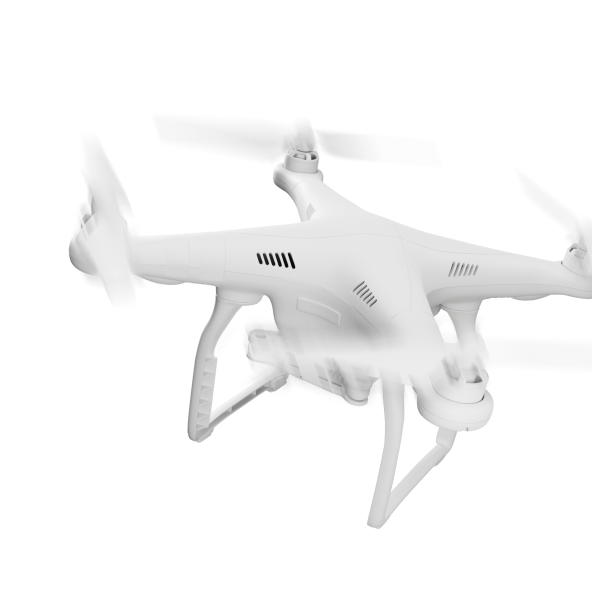
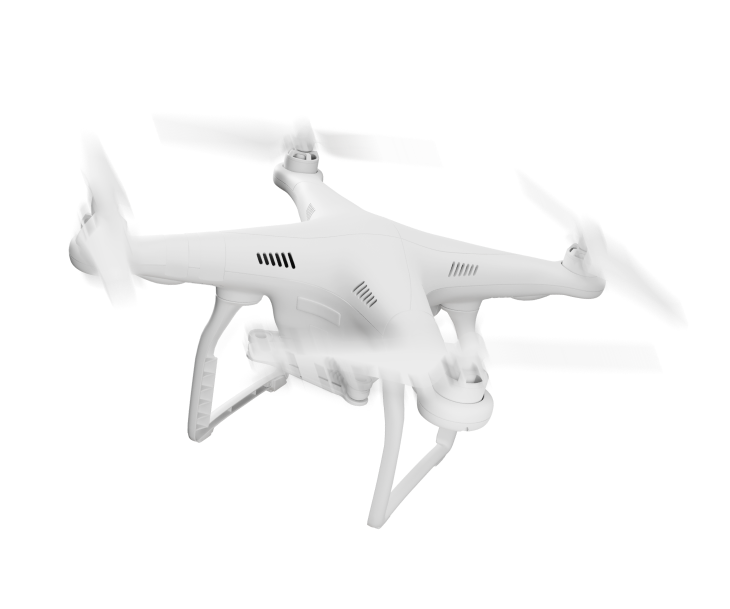
Add files via upload

diff --git a/css/main.min.css b/css/main.min.css
@@ -1,1 +1,1 @@
-@font-face{font-family:'Rubik';src:url("../fonts/Rubik-Medium.woff2") format("woff2"),url("../fonts/Rubik-Medium.woff") format("woff");font-style:normal;font-weight:500;font-display:swap}@font-face{font-family:'Rubik';src:url("../fonts/Rubik-SemiBold.woff2") format("woff2"),url("../fonts/Rubik-SemiBold.woff") format("woff");font-style:normal;font-weight:600;font-display:swap}@font-face{font-family:'Rubik';src:url("../fonts/Rubik-Bold.woff2") format("woff2"),url("../fonts/Rubik-Bold.woff") format("woff");font-style:normal;font-weight:700;font-display:swap}@font-face{font-family:'Exo 2';src:url("../fonts/Exo2-Medium.woff2") format("woff2"),url("../fonts/Exo2-Medium.woff") format("woff");font-style:normal;font-weight:500;font-display:swap}@font-face{font-family:'Exo 2';src:url("../fonts/Exo2-Bold.woff2") format("woff2"),url("../fonts/Exo2-Bold.woff") format("woff");font-style:normal;font-weight:700;font-display:swap}html{scroll-behavior:smooth}body{background:#EAEAEA;font-family:'Exo 2', sans-serif;font-weight:500;font-size:16px;line-height:19px;color:#202020}section{margin-bottom:90px}h1,h2,h3,h4,h5,h6{font-family:'Rubik', sans-serif}h1{font-weight:700;font-size:98px;line-height:116px;text-transform:uppercase}h3{font-weight:600;font-size:40px;line-height:47.4px}button{padding:12px 40px;color:#EAEAEA;background:transparent;border:1px solid #EAEAEA;border-radius:10px;transition:all 0.5s}button:hover{background:#EAEAEA;color:#202020;border-color:#202020}input{padding:12px 0 12px 20px;background:transparent;color:#fff;border:1px solid #A0A0A0;border-radius:10px;font-family:'Exo 2', sans-serif;font-weight:500;position:relative}input:focus{padding:17px 0 7px 20px;color:#fff;border-color:#fff}input:focus::placeholder{position:absolute;top:4px;color:#A0A0A0;font-size:10px;line-height:12px}.container{position:relative;max-width:1120px;margin:0 auto;padding:0 5px}.logo__img-mobile{display:none}.menu{display:flex;justify-content:space-between;align-items:center;padding:30px 0}.menu__link{font-family:'Rubik', sans-serif;font-weight:500}.menu__btn-mobile{display:none}.landing{padding:40px 0 120px;color:#EAEAEA;background:#202020}.landing__title{width:555px;margin-bottom:40px}.landing__subtitle{width:353px;margin-bottom:65px}.landing__img{position:absolute;right:0;top:11px}.advantages__inner{display:flex;justify-content:space-between}.advantages__box{width:350px;height:245px;padding:30px;background:#fff;border-radius:16px}.advantages__title{width:255px;margin-bottom:53px;color:#202020}.deliveries{color:#EAEAEA}.deliveries__inner{display:flex;justify-content:space-between;background:#202020;border-radius:16px}.deliveries__left{max-width:384px;padding:30px}.deliveries__title{margin-bottom:30px}.deliveries__text{margin-bottom:20px}.deliveries__text:nth-last-child(2){margin-bottom:60px}.deliveries__link-btn{width:100%}.deliveries__right{width:100%;height:363px;background-image:url(../images/deliveries-box.png);background-repeat:no-repeat;background-size:cover;background-position:center;border-radius:16px}.partners{color:#202020}.partners__title{margin-bottom:30px}.partners__logos{display:flex;justify-content:space-between;align-items:center}.orders{position:relative;background:#202020;color:#EAEAEA}.orders__inner{position:relative;width:293px;margin:0 auto;padding:138px 0 280px}.orders__title{margin-bottom:30px}.orders__input{width:293px;margin-bottom:10px}.orders__link{display:block;margin-top:15px}.orders__link-btn{width:100%}.orders__img{position:absolute}.orders__img-left{height:70%;left:0;top:-30px}.orders__img-right{height:61%;right:0;top:70px}.orders__img-bottom{bottom:-160px;left:-21px}.footer{padding:40px 0 75px}.footer__inner{display:flex;justify-content:space-between;margin-bottom:90px}.footer__left{width:422px;display:flex;justify-content:space-between}.footer__sections-link,.footer__contacts-link{display:block;margin-bottom:20px}.footer__sections-link:nth-last-child(1),.footer__contacts-link:nth-last-child(1){margin-bottom:0}.footer__right{width:276px;display:flex}.footer__apps-link{display:inline-block;height:47px;margin-bottom:10px}.footer__apps-link:nth-last-child(1){margin-bottom:0}.footer__circa{font-weight:700}.footer__circa-mobile{display:none}@media (max-width: 1135px){section{margin-bottom:60px}h1{font-size:72px;line-height:82px}h3{font-size:30px;line-height:36px}.container{max-width:1120px;padding:0 50px}.landing{padding-bottom:60px}.landing__img{height:110%}.advantages__box{max-width:270px;height:205px;padding:20px}.advantages__title{width:185px;margin-bottom:33px}.advantages__text{width:200px}.deliveries__left{max-width:384px}.orders__inner{width:250px;margin:0 auto;padding:75px 0 140px}.orders__input{width:100%}.orders__img-left{height:80%;left:0;top:-30px}.orders__img-right{height:71%;right:0;top:70px}.orders__img-bottom{height:45%;bottom:-100px;left:4px}.footer{padding:0 0 25px}.footer__inner{margin-bottom:40px}.footer__left{width:350px}.footer__sections-link,.footer__contacts-link{margin-bottom:10px}.footer__sections-link:nth-last-child(1),.footer__contacts-link:nth-last-child(1){margin-bottom:0}}@media (max-width: 970px){section{margin-bottom:60px}h1{font-size:56px;line-height:62px}h3{font-size:30px;line-height:35.55px}.container{max-width:1120px;padding:0 50px}.menu{padding:15px 0}.landing{padding-bottom:60px}.advantages__box{max-width:220px;height:185px;padding:15px}.advantages__title{width:185px;margin-bottom:33px}.advantages__text{width:180px}.deliveries__left{max-width:303px}.deliveries__title{margin-bottom:20px}.deliveries__text{margin-bottom:15px}.deliveries__text:nth-last-child(2){margin-bottom:20px}.orders__inner{padding-bottom:80px}.orders__img-left{height:65%;top:-20px}.orders__img-right{height:56%}.orders__img-bottom{height:35%;bottom:-80px;left:43px}.footer{padding:0 0 25px}.footer__inner{margin-bottom:40px}.footer__left{width:300px}}@media (max-width: 810px){section{margin-bottom:50px}h1{font-size:40px;line-height:47.4px}h3{font-size:30px;line-height:35.55px}.container{max-width:800px;padding:0 15px}.menu__link{display:none}.menu__btn-mobile{display:block;border:none;padding:0;color:transparent;background:transparent}.menu__btn-mobile:hover{background:transparent;color:transparent;border:none}.logo__img{display:none}.logo__img-mobile{display:block}.landing{padding:31px 0 45px}.landing__title{font-size:40px;line-height:47px;margin-bottom:15px}.landing__subtitle{font-size:20px;line-height:23.7px;margin-bottom:40px}.landing__link{display:block}.landing__link-btn{width:40%}.landing__img{height:130%;top:-10px}.deliveries__inner{flex-direction:column-reverse}.deliveries__left{max-width:780px}.deliveries__right{margin:0 auto}}@media (max-width: 740px){.landing{padding-top:161px}.landing__title{width:227px}.landing__link-btn{width:100%}.landing__img{top:-140px}.advantages__inner{display:block}.advantages__box{max-width:710px;width:100%;height:230px;margin-bottom:25px;padding:30px 25px}.advantages__text{width:200px}.deliveries__left{padding:15px}.deliveries__right{height:268px}.partners{margin-bottom:30px}.partners__title{margin-bottom:10px}.partners__logos{display:flex;flex-wrap:wrap;justify-content:space-around}.partners__link{display:block;padding:20px}.orders__img-left,.orders__img-right{display:none}.orders__inner{width:344px;padding-bottom:172px}.orders__img-bottom{height:39%;left:55px;bottom:-80px}.footer{padding-top:40px}.footer__inner{flex-direction:row-reverse}.footer__left{justify-content:center}.footer__sections{display:none}.footer__contacts-link{margin-bottom:15px}.footer__right{justify-content:center}.footer__apps{width:158px}.footer__qrcode-link{display:none}.footer__qrcode-img{display:none}.footer__circa{display:none}.footer__circa-mobile{display:block;margin-top:36px;font-weight:700}}@media (max-width: 640px){.landing{padding-top:311px}.landing__img{top:-310px}}
+@font-face{font-family:'Rubik';src:url("../fonts/Rubik-Medium.woff2") format("woff2"),url("../fonts/Rubik-Medium.woff") format("woff");font-style:normal;font-weight:500;font-display:swap}@font-face{font-family:'Rubik';src:url("../fonts/Rubik-SemiBold.woff2") format("woff2"),url("../fonts/Rubik-SemiBold.woff") format("woff");font-style:normal;font-weight:600;font-display:swap}@font-face{font-family:'Rubik';src:url("../fonts/Rubik-Bold.woff2") format("woff2"),url("../fonts/Rubik-Bold.woff") format("woff");font-style:normal;font-weight:700;font-display:swap}@font-face{font-family:'Exo 2';src:url("../fonts/Exo2-Medium.woff2") format("woff2"),url("../fonts/Exo2-Medium.woff") format("woff");font-style:normal;font-weight:500;font-display:swap}@font-face{font-family:'Exo 2';src:url("../fonts/Exo2-Bold.woff2") format("woff2"),url("../fonts/Exo2-Bold.woff") format("woff");font-style:normal;font-weight:700;font-display:swap}html{scroll-behavior:smooth}body{background:#EAEAEA;font-family:'Exo 2', sans-serif;font-weight:500;font-size:16px;line-height:19px;color:#202020;overflow-x:hidden}section{margin-bottom:90px}h1,h2,h3,h4,h5,h6{font-family:'Rubik', sans-serif}h1{font-weight:700;font-size:98px;line-height:116px;text-transform:uppercase}h3{font-weight:600;font-size:40px;line-height:47.4px}button{padding:12px 40px;color:#EAEAEA;background:transparent;border:1px solid #EAEAEA;border-radius:10px;transition:all 0.5s}button:hover{background:#EAEAEA;color:#202020;border-color:#202020}input{padding:12px 0 12px 20px;background:transparent;color:#fff;border:1px solid #A0A0A0;border-radius:10px;font-family:'Exo 2', sans-serif;font-weight:500;position:relative}input:focus{padding:17px 0 7px 20px;color:#fff;border-color:#fff}input:focus::placeholder{position:absolute;top:4px;color:#A0A0A0;font-size:10px;line-height:12px}.container{max-width:1120px;margin:0 auto;padding:0 5px}.logo__img-mobile{display:none}.menu{display:flex;justify-content:space-between;align-items:center;padding:30px 0}.menu__link{font-family:'Rubik', sans-serif;font-weight:500}.menu__btn-mobile{display:none}.landing{padding:40px 0 120px;color:#EAEAEA;background:#202020}.landing__container{position:relative}.landing__title{width:555px;margin-bottom:40px}.landing__subtitle{width:353px;margin-bottom:65px}.landing__img{position:absolute;right:-505px;top:11px}.advantages__inner{display:flex;justify-content:space-between}.advantages__box{width:350px;height:245px;padding:30px;background:#fff;border-radius:16px}.advantages__title{width:255px;margin-bottom:53px;color:#202020}.deliveries{color:#EAEAEA}.deliveries__inner{display:flex;justify-content:space-between;background:#202020;border-radius:16px}.deliveries__left{max-width:384px;padding:30px}.deliveries__title{margin-bottom:30px}.deliveries__text{margin-bottom:20px}.deliveries__text:nth-last-child(2){margin-bottom:60px}.deliveries__link-btn{width:100%}.deliveries__right{width:100%;height:374px;background-image:url(../images/deliveries-box.png);background-repeat:no-repeat;background-size:cover;background-position:center;border-radius:16px}.partners{color:#202020}.partners__title{margin-bottom:30px}.partners__logos{display:flex;justify-content:space-between;align-items:center}.orders{background:#202020;color:#EAEAEA}.orders__container{position:relative}.orders__inner{width:293px;margin:0 auto;padding:138px 0 280px}.orders__title{margin-bottom:30px}.orders__input{width:293px;margin-bottom:10px}.orders__link{display:block;margin-top:15px}.orders__link-btn{width:100%}.orders__img{position:absolute}.orders__img-left{height:70%;left:-345px;top:-30px}.orders__img-right{height:61%;right:-268px;top:70px}.orders__img-bottom{bottom:-180px;left:382px}.footer{padding:40px 0 75px}.footer__inner{display:flex;justify-content:space-between;margin-bottom:90px}.footer__left{width:422px;display:flex;justify-content:space-between}.footer__sections-link,.footer__contacts-link{display:block;margin-bottom:20px}.footer__sections-link:nth-last-child(1),.footer__contacts-link:nth-last-child(1){margin-bottom:0}.footer__right{width:276px;display:flex}.footer__apps-link{display:inline-block;height:47px;margin-bottom:10px}.footer__apps-link:nth-last-child(1){margin-bottom:0}.footer__circa{font-weight:700}.footer__circa-mobile{display:none}@media (max-width: 1135px){section{margin-bottom:60px}h1{font-size:72px;line-height:82px}h3{font-size:30px;line-height:36px}.container{max-width:1120px;padding:0 50px}.landing{padding-bottom:60px}.landing__img{height:110%;right:-170px}.advantages__box{max-width:270px;height:205px;padding:20px}.advantages__title{width:185px;margin-bottom:33px}.advantages__text{width:200px}.deliveries__left{max-width:384px}.orders__inner{position:relative;width:250px;margin:0 auto;padding:75px 0 140px}.orders__input{width:100%}.orders__img-left{height:80%;left:-140px;top:-30px}.orders__img-right{height:71%;right:-100px;top:70px}.orders__img-bottom{height:45%;bottom:-100px;left:4px}.footer{padding:0 0 25px}.footer__inner{margin-bottom:40px}.footer__left{width:350px}.footer__sections-link,.footer__contacts-link{margin-bottom:10px}.footer__sections-link:nth-last-child(1),.footer__contacts-link:nth-last-child(1){margin-bottom:0}}@media (max-width: 970px){section{margin-bottom:60px}h1{font-size:56px;line-height:62px}h3{font-size:30px;line-height:35.55px}.container{max-width:1120px;padding:0 50px}.menu{padding:15px 0}.landing{padding-bottom:60px}.advantages__box{max-width:220px;height:185px;padding:15px}.advantages__title{width:185px;margin-bottom:33px}.advantages__text{width:180px}.deliveries__left{max-width:303px}.deliveries__title{margin-bottom:20px}.deliveries__text{margin-bottom:15px}.deliveries__text:nth-last-child(2){margin-bottom:20px}.orders__inner{padding-bottom:80px}.orders__img-left{height:65%;top:-20px}.orders__img-right{height:56%}.orders__img-bottom{height:35%;bottom:-90px;left:43px}.footer{padding:0 0 25px}.footer__inner{margin-bottom:40px}.footer__left{width:300px}}@media (max-width: 810px){section{margin-bottom:50px}h1{font-size:40px;line-height:47.4px}h3{font-size:30px;line-height:35.55px}.container{max-width:800px;padding:0 15px}.menu__link{display:none}.menu__btn-mobile{display:block;border:none;padding:0;color:transparent;background:transparent}.menu__btn-mobile:hover{background:transparent;color:transparent;border:none}.logo__img{display:none}.logo__img-mobile{display:block}.landing{padding:31px 0 45px}.landing__title{font-size:40px;line-height:47px;margin-bottom:15px}.landing__subtitle{font-size:20px;line-height:23.7px;margin-bottom:40px}.landing__link{display:block}.landing__link-btn{width:40%}.landing__img{height:130%;top:-10px;right:-100px}.deliveries__inner{flex-direction:column-reverse}.deliveries__left{max-width:780px}.deliveries__right{margin:0 auto}}@media (max-width: 740px){.landing{padding-top:161px}.landing__title{width:227px}.landing__link-btn{width:100%}.landing__img{top:-140px}.advantages__inner{display:block}.advantages__box{max-width:710px;width:100%;height:230px;margin-bottom:25px;padding:30px 25px}.advantages__text{width:200px}.deliveries__left{padding:15px}.deliveries__right{height:268px}.partners{margin-bottom:30px}.partners__title{margin-bottom:10px}.partners__logos{display:flex;flex-wrap:wrap;justify-content:space-around}.partners__link{display:block;padding:20px}.orders__img-left,.orders__img-right{display:none}.orders__inner{width:344px;padding-bottom:172px}.orders__img-bottom{height:39%;left:55px;bottom:-80px}.footer{padding-top:40px}.footer__inner{flex-direction:row-reverse}.footer__left{justify-content:center}.footer__sections{display:none}.footer__contacts-link{margin-bottom:15px}.footer__right{justify-content:center}.footer__apps{width:158px}.footer__qrcode-link{display:none}.footer__qrcode-img{display:none}.footer__circa{display:none}.footer__circa-mobile{display:block;margin-top:36px;font-weight:700}}@media (max-width: 640px){.landing{padding-top:311px}.landing__img{top:-310px}}

diff --git a/scss/main.scss b/scss/main.scss
@@ -54,6 +54,7 @@ body {
    font-size: 16px;
    line-height: 19px;
    color: #202020;
+   overflow-x: hidden;
 }
 
 section {
@@ -123,7 +124,6 @@ input {
 }
 
 .container {
-   position: relative;
    max-width: 1120px;
    margin: 0 auto;
    padding: 0 5px;
@@ -163,6 +163,10 @@ input {
    color: #EAEAEA;
    background: #202020;
 
+   &__container {
+      position: relative;
+   }
+
    &__title {
       width: 555px;
       margin-bottom: 40px;
@@ -179,7 +183,7 @@ input {
 
    &__img {
       position: absolute;
-      right: 0;
+      right: -505px;
       top: 11px;
    }
 }
@@ -243,7 +247,7 @@ input {
 
    &__right {
       width: 100%;
-      height: 363px;
+      height: 374px;
       background-image: url(../images/deliveries-box.png);
       background-repeat: no-repeat;
       background-size: cover;
@@ -273,12 +277,14 @@ input {
 }
 
 .orders {
-   position: relative;
    background: #202020;
    color: #EAEAEA;
 
-   &__inner {
+   &__container {
       position: relative;
+   }
+
+   &__inner {
       width: 293px;
       margin: 0 auto;
       padding: 138px 0 280px;
@@ -308,19 +314,19 @@ input {
 
    &__img-left {
       height: 70%;
-      left: 0;
+      left: -345px;
       top: -30px;
    }
 
    &__img-right {
       height: 61%;
-      right: 0;
+      right: -268px;
       top: 70px;
    }
 
    &__img-bottom {
-      bottom: -160px;
-      left: -21px;
+      bottom: -180px;
+      left: 382px;
    }
 }
 
@@ -415,6 +421,7 @@ input {
 
       &__img {
          height: 110%;
+         right: -170px;
       }
    }
 
@@ -450,6 +457,7 @@ input {
    .orders {
 
       &__inner {
+         position: relative;
          width: 250px;
          margin: 0 auto;
          padding: 75px 0 140px;
@@ -461,13 +469,13 @@ input {
 
       &__img-left {
          height: 80%;
-         left: 0;
+         left: -140px;
          top: -30px;
       }
 
       &__img-right {
          height: 71%;
-         right: 0;
+         right: -100px;
          top: 70px;
       }
 
@@ -583,7 +591,7 @@ input {
 
       &__img-bottom {
          height: 35%;
-         bottom: -80px;
+         bottom: -90px;
          left: 43px;
       }
    }
@@ -682,6 +690,7 @@ input {
       &__img {
          height: 130%;
          top: -10px;
+         right: -100px;
       }
    }
 

diff --git a/index.html b/index.html
@@ -34,7 +34,7 @@
    <main>
 
       <section class="landing">
-         <div class="container">
+         <div class="container landing__container">
             <h1 class="landing__title">Дoставка дронами</h1>
             <h3 class="landing__subtitle">Экономьте время с новейшими технологиями</h3>
             <a class="landing__link" href="#orders">
@@ -108,9 +108,9 @@
       </section>
 
       <section class="orders" id="orders">
-         <img class="orders__img orders__img-left" src="images/orders-drone-left.png" alt="Drone">
-         <img class="orders__img orders__img-right" src="images/orders-drone-right.png" alt="Drone">
-         <div class="container">
+         <div class="container orders__container">
+            <img class="orders__img orders__img-left" src="images/orders-drone-left.png" alt="Drone">
+            <img class="orders__img orders__img-right" src="images/orders-drone-right.png" alt="Drone">
             <div class="orders__inner">
                <h3 class="orders__title">Попробуйте первый полет!</h3>
                <input class="orders__input" type="text" placeholder="Имя">
